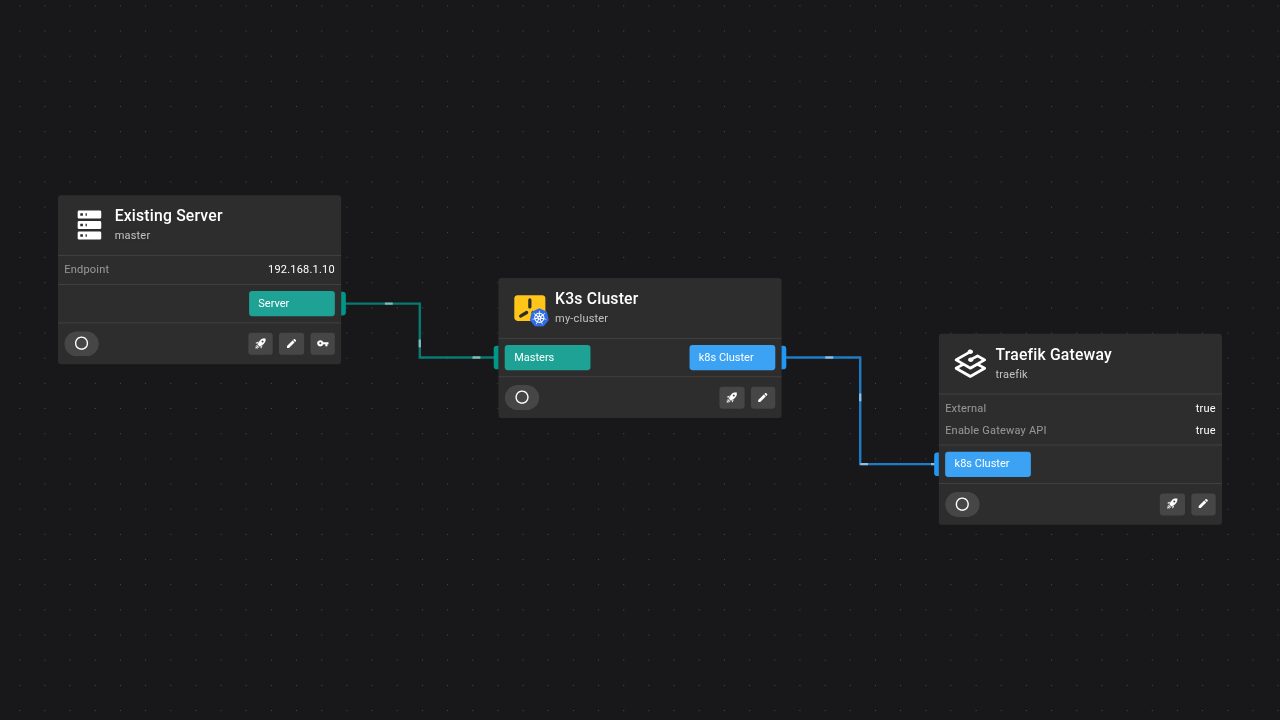
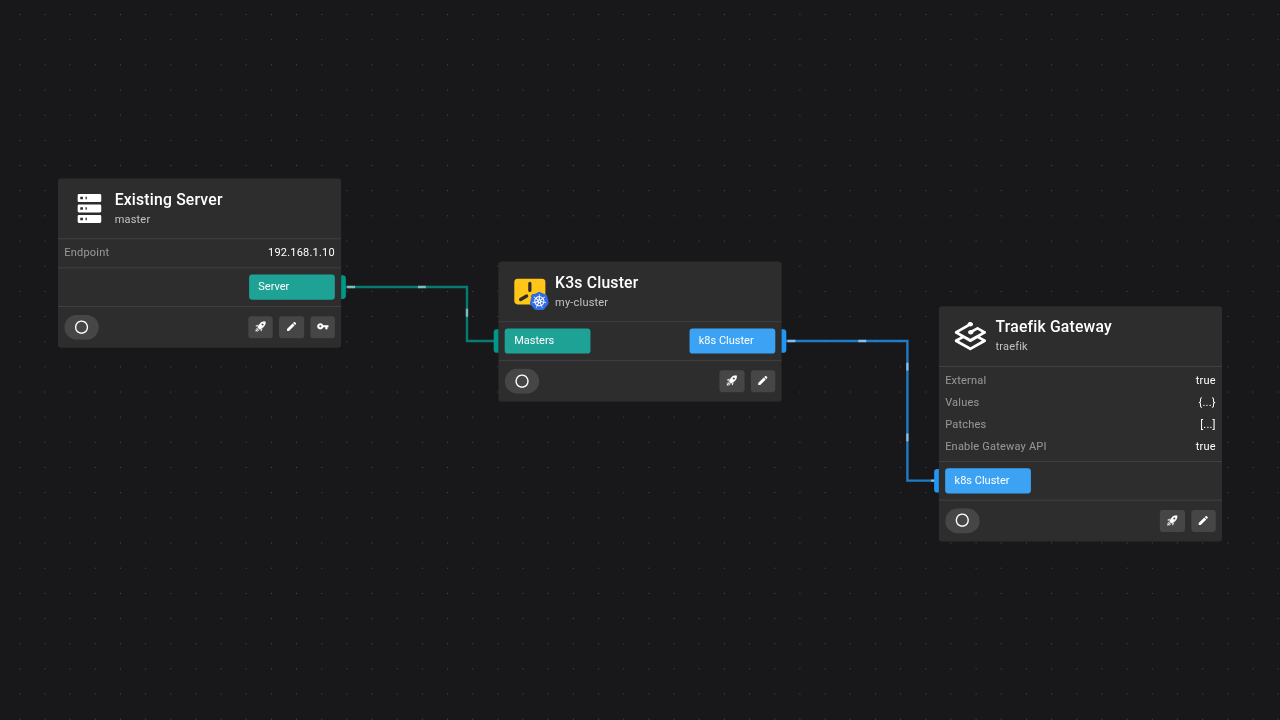
docs: demonstrate Helm value customization

diff --git a/packages/platform/docs/app/snippets/standard-library/kubernetes/traefik.preview.ts b/packages/platform/docs/app/snippets/standard-library/kubernetes/traefik.preview.ts
@@ -19,6 +19,15 @@ k8s.apps.traefik({
   args: {
     external: true,
     enableGatewayApi: true,
+    values: {
+      deployment: {
+        replicas: 1,
+        podAnnotations: {
+          "example.com/managed-by": "highstate",
+        },
+      },
+    },
+    patches: [{ op: "replace", path: "/deployment/replicas", value: 2 }],
   },
   inputs: {
     k8sCluster,